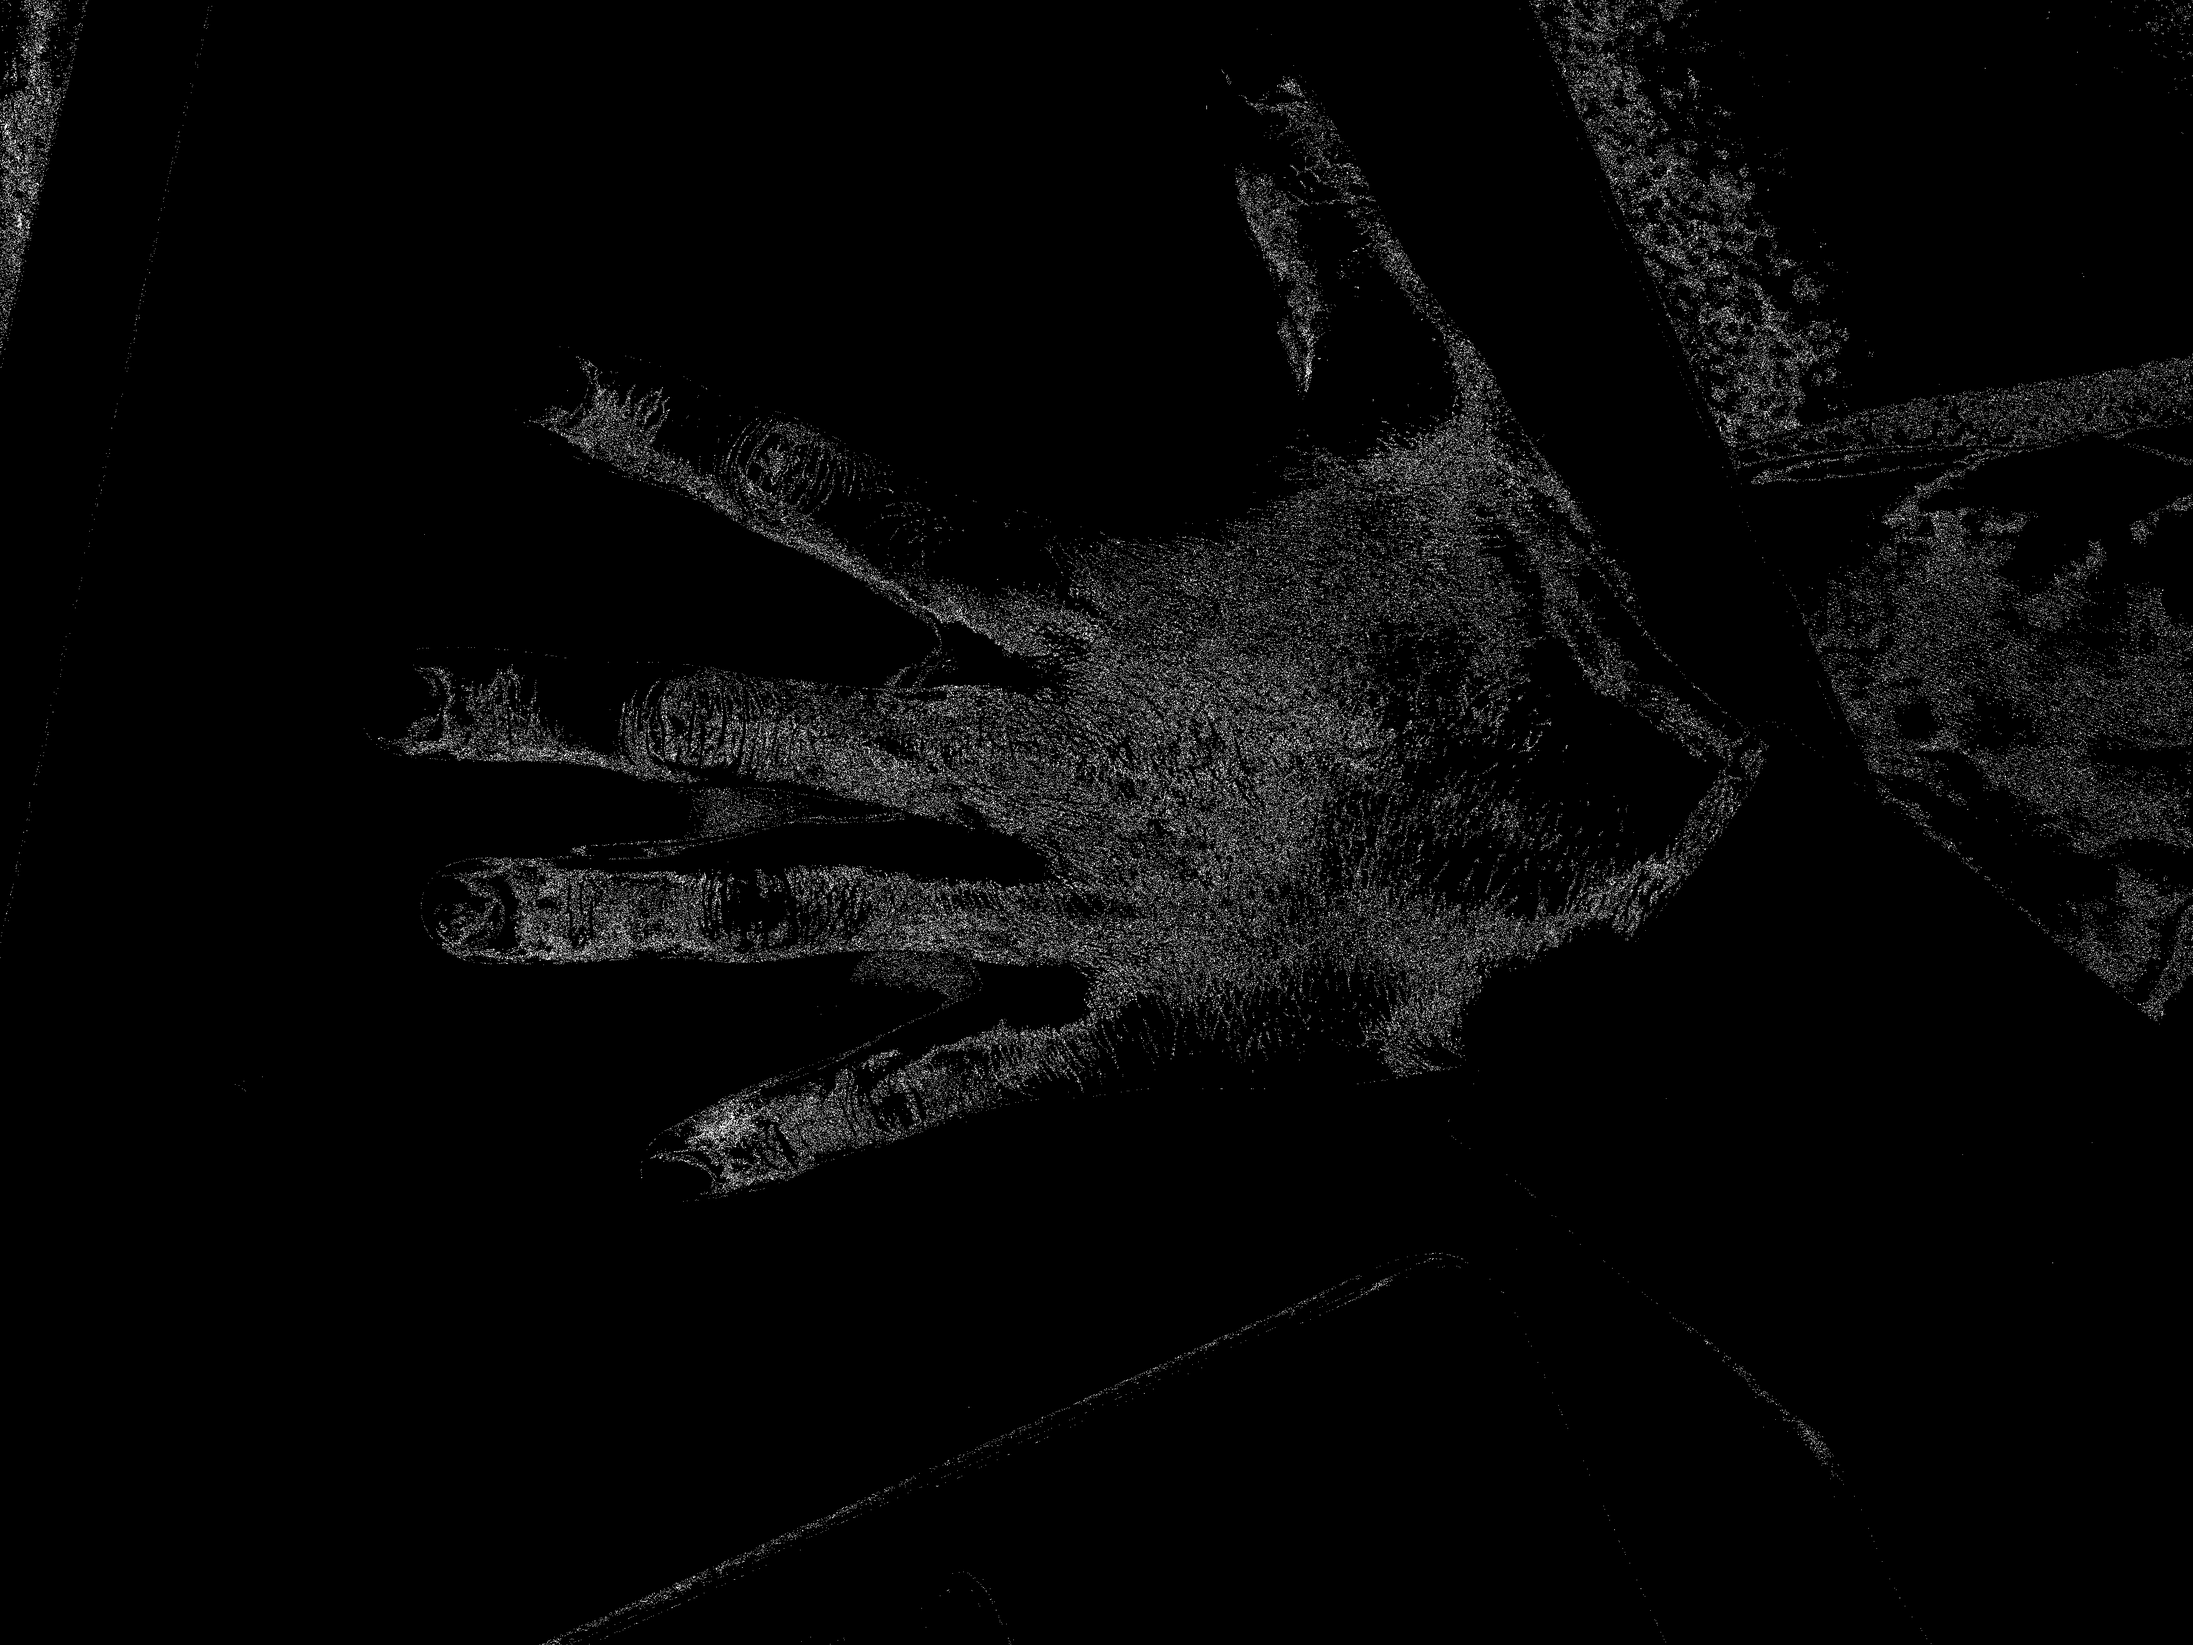
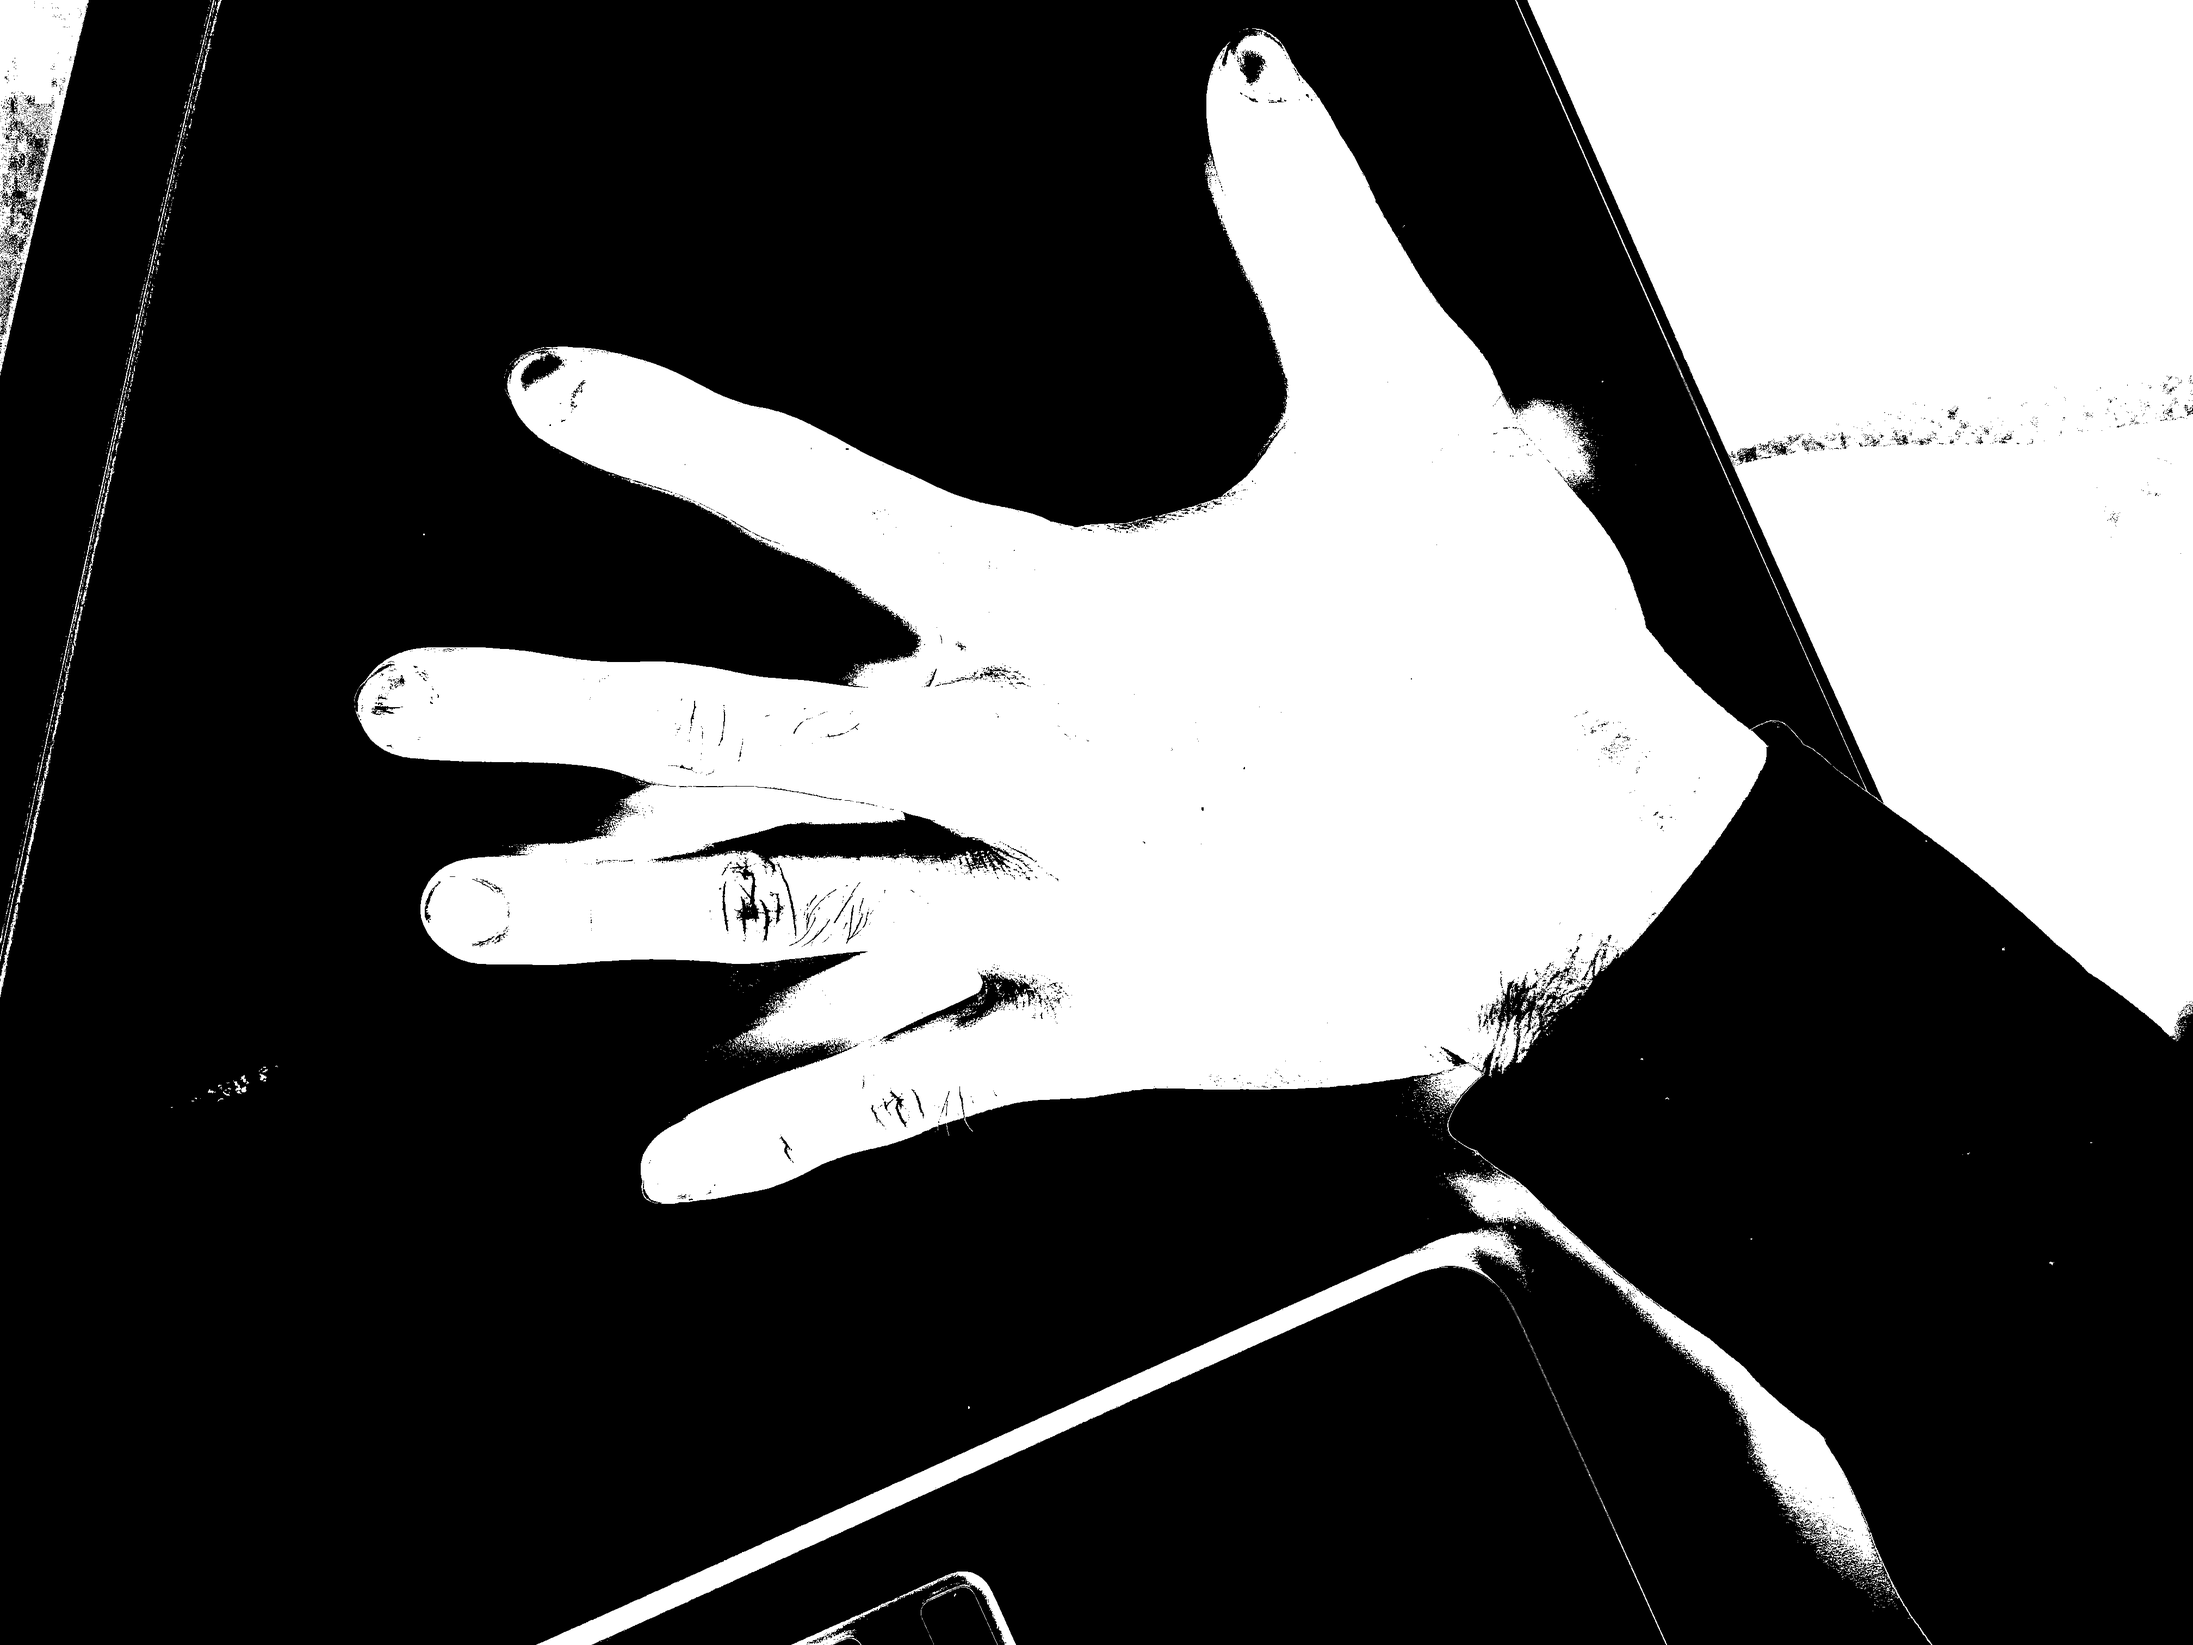
Add and Change RGB skin color

diff --git a/06_ImageFiltering/no5_rgbfunc.m b/06_ImageFiltering/no5_rgbfunc.m
@@ -1,0 +1,40 @@
+function [BW,maskedRGBImage] = no5_rgbfunc(RGB)
+%createMask  Threshold RGB image using auto-generated code from colorThresholder app.
+%  [BW,MASKEDRGBIMAGE] = createMask(RGB) thresholds image RGB using
+%  auto-generated code from the colorThresholder app. The colorspace and
+%  range for each channel of the colorspace were set within the app. The
+%  segmentation mask is returned in BW, and a composite of the mask and
+%  original RGB images is returned in maskedRGBImage.
+
+% Auto-generated by colorThresholder app on 14-May-2023
+%------------------------------------------------------
+
+
+% Convert RGB image to chosen color space
+I = RGB;
+
+% Define thresholds for channel 1 based on histogram settings
+channel1Min = 113.000;
+channel1Max = 160.000;
+
+% Define thresholds for channel 2 based on histogram settings
+channel2Min = 81.000;
+channel2Max = 133.000;
+
+% Define thresholds for channel 3 based on histogram settings
+channel3Min = 33.000;
+channel3Max = 98.000;
+
+% Create mask based on chosen histogram thresholds
+sliderBW = (I(:,:,1) >= channel1Min ) & (I(:,:,1) <= channel1Max) & ...
+    (I(:,:,2) >= channel2Min ) & (I(:,:,2) <= channel2Max) & ...
+    (I(:,:,3) >= channel3Min ) & (I(:,:,3) <= channel3Max);
+BW = sliderBW;
+
+% Initialize output masked image based on input image.
+maskedRGBImage = RGB;
+
+% Set background pixels where BW is false to zero.
+maskedRGBImage(repmat(~BW,[1 1 3])) = 0;
+
+end

diff --git a/06_ImageFiltering/no5_rgb.m b/06_ImageFiltering/no5_rgb.m
@@ -3,9 +3,9 @@ img = imread("file_hand.png");
 r = img(:,:,1);
 g = img(:,:,2);
 b = img(:,:,3);
-bin_r = (r == 120);
-bin_g = (g == 98);
-bin_b = (b == 77);
+bin_r = (r >= 113 & r <= 160);
+bin_g = (g >= 81 & g <= 133);
+bin_b = (b >= 77 & b <= 98);
 bin_r = bin_r * 255;
 bin_g = bin_g * 255;
 bin_b = bin_b * 255;
